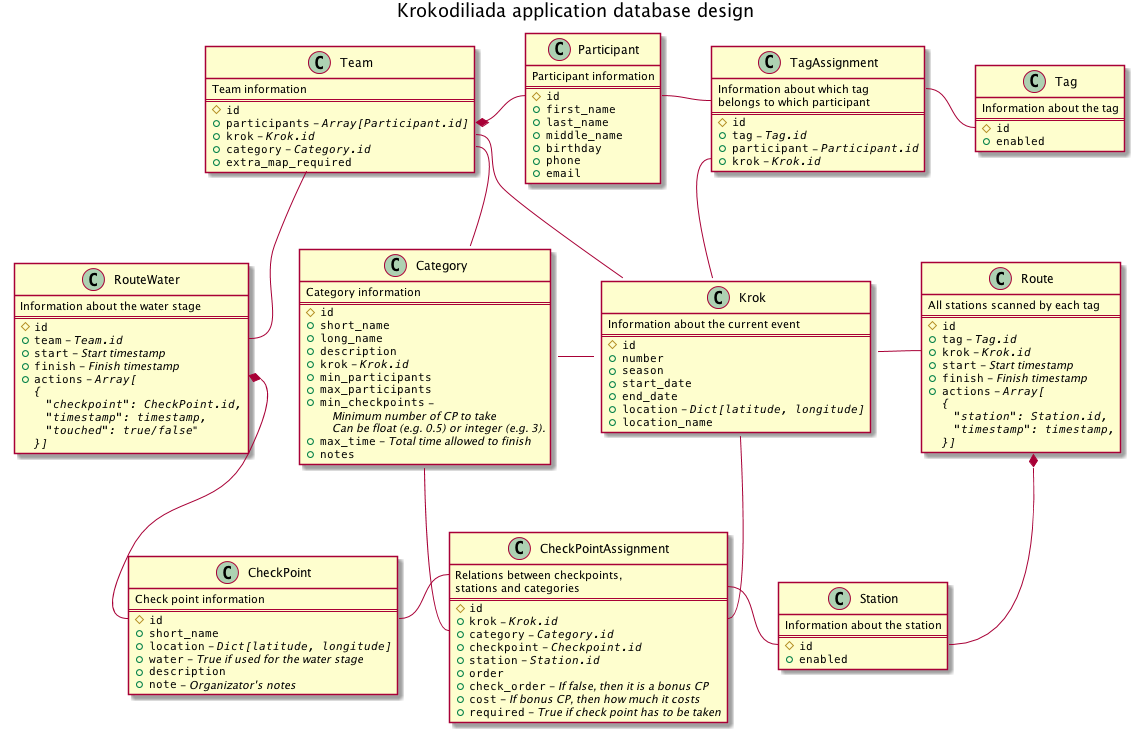
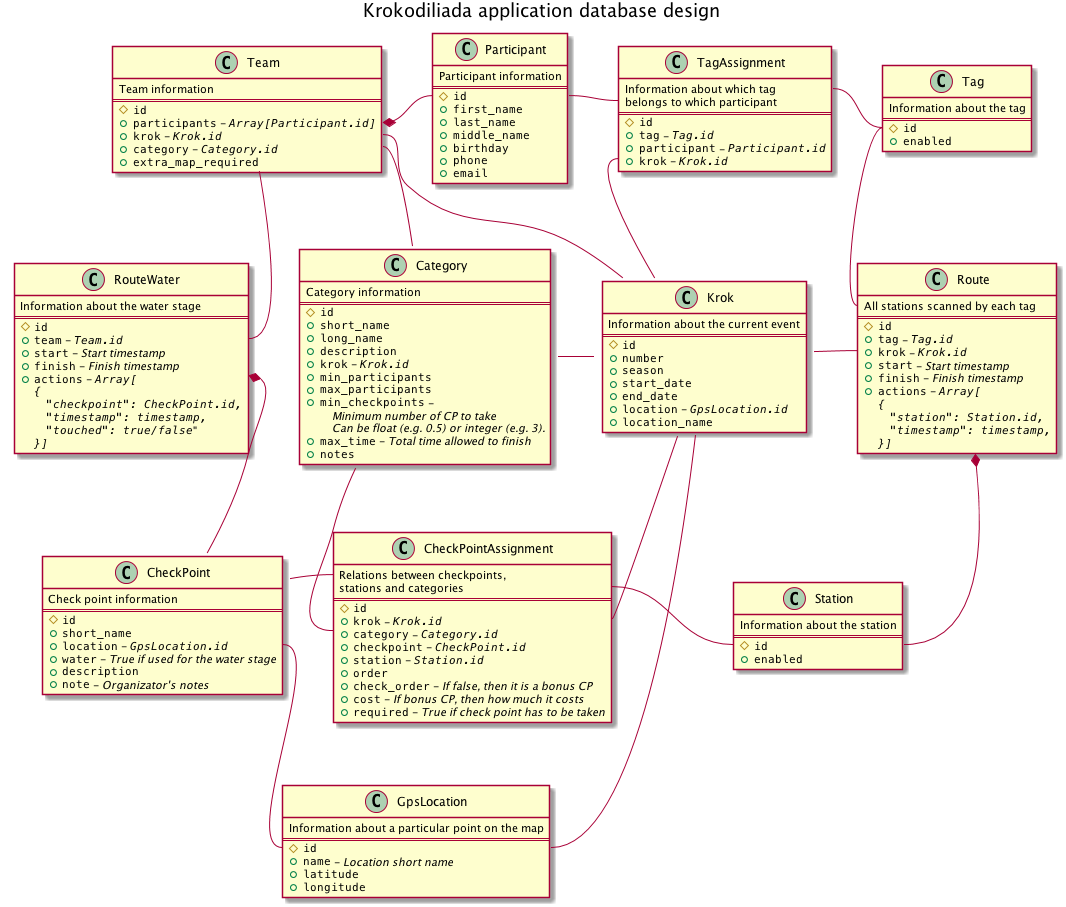
Completed mongoose database schemas

diff --git a/src/model/CheckpointAssignment.ts b/src/model/CheckpointAssignment.ts
@@ -1,0 +1,92 @@
+import mongoose, { Schema, Document } from "mongoose";
+import { IKrok } from "model/Krok";
+import { ICategory } from "model/Category";
+import { ICheckpoint } from "model/CheckPoint";
+import { IStation } from "model/Station";
+
+enum CheckpointCostMetric {
+  Points = 0,
+  Seconds,
+  Minutes,
+  Hours,
+}
+
+export interface ICheckpointAssignment extends Document {
+  krok: IKrok["_id"];
+  category: ICategory["_id"];
+  checkpoint: ICheckpoint["_id"];
+  station: IStation["_id"];
+  required: boolean;
+
+  /**
+   * @brief Check whether the checkpoint is linear or not.
+   * @details If true, then @p order field will be used to check the order of
+   * checkpoints. If false, then the order of this checkpoint does not matter
+   * and it won't be used to check the correctness of the route in @p category.
+   */
+  checkOrder: boolean;
+
+  /**
+   * Number of the @p checkpoint in the route assigned to the @p category
+   */
+  order: number;
+
+  /**
+   * How much of bonus points the team receives if they take this checkpoint.
+   */
+  cost: number;
+  costMetric: CheckpointCostMetric;
+
+  createdAt: Date;
+  updatedAt: Date;
+}
+
+export const CheckpointAssignmentSchema: Schema = new Schema(
+  {
+    krok: {
+      type: Schema.Types.ObjectId,
+      required: true,
+    },
+    category: {
+      type: Schema.Types.ObjectId,
+      required: true,
+    },
+    checkpoint: {
+      type: Schema.Types.ObjectId,
+      required: true,
+    },
+    station: {
+      type: Schema.Types.ObjectId,
+      required: false,
+    },
+    rquired: {
+      type: Boolean,
+      required: false,
+      default: true,
+    },
+    checkOrder: {
+      type: Boolean,
+      required: false,
+      default: true,
+    },
+    order: {
+      type: Number,
+      required: false,
+    },
+    cost: {
+      type: Number,
+      required: false,
+    },
+    costMetric: {
+      type: Number,
+      default: 1,
+      enum: [0, 1, 2, 3],
+    },
+  },
+  { timestamps: true }
+);
+
+export default mongoose.model<ICheckpointAssignment>(
+  "CheckpointAssignment",
+  CheckpointAssignmentSchema
+);

diff --git a/src/model/RouteWater.ts b/src/model/RouteWater.ts
@@ -1,0 +1,57 @@
+import mongoose, { Schema, Document } from "mongoose";
+import { ITeam } from "model/Team";
+import { ICheckpoint } from "model/CheckPoint";
+
+interface IRouteWaterAction extends Document {
+  checkpoint: ICheckpoint["_id"];
+  timestamp: Date;
+  /**
+   * Whether the team touched a pole of the checkpoint
+   */
+  touched: boolean;
+}
+
+export interface IRouteWater extends Document {
+  team: ITeam["_id"];
+  start: Date;
+  finish: Date;
+  actions: [IRouteWaterAction];
+  createdAt: Date;
+  updatedAt: Date;
+}
+
+const RouteWaterActionSchema: Schema = new Schema({
+  station: {
+    type: Schema.Types.ObjectId,
+    required: true,
+  },
+  timestamp: {
+    type: Date,
+    required: true,
+  },
+});
+
+export const RouteWaterSchema: Schema = new Schema(
+  {
+    team: {
+      type: Schema.Types.ObjectId,
+      required: true,
+    },
+    start: {
+      type: Date,
+      required: true,
+    },
+    finish: {
+      type: Date,
+      required: false,
+    },
+    actions: {
+      type: [RouteWaterActionSchema],
+      required: false,
+      default: [],
+    },
+  },
+  { timestamps: true }
+);
+
+export default mongoose.model<IRouteWater>("RouteWater", RouteWaterSchema);

diff --git a/src/model/Route.ts b/src/model/Route.ts
@@ -1,0 +1,59 @@
+import mongoose, { Schema, Document } from "mongoose";
+import { ITag } from "model/Tag";
+import { IKrok } from "model/Krok";
+import { IStation } from "model/Station";
+
+interface IRouteAction extends Document {
+  station: IStation["_id"];
+  timestamp: Date;
+}
+
+export interface IRoute extends Document {
+  tag: ITag["_id"];
+  krok: IKrok["_id"];
+  start: Date;
+  finish: Date;
+  actions: [IRouteAction];
+  createdAt: Date;
+  updatedAt: Date;
+}
+
+const RouteActionSchema: Schema = new Schema({
+  station: {
+    type: Schema.Types.ObjectId,
+    required: true,
+  },
+  timestamp: {
+    type: Date,
+    required: true,
+  },
+});
+
+export const RouteSchema: Schema = new Schema(
+  {
+    tag: {
+      type: Schema.Types.ObjectId,
+      required: true,
+    },
+    krok: {
+      type: Schema.Types.ObjectId,
+      required: true,
+    },
+    start: {
+      type: Date,
+      required: true,
+    },
+    finish: {
+      type: Date,
+      required: true,
+    },
+    actions: {
+      type: [RouteActionSchema],
+      required: true,
+      default: [],
+    },
+  },
+  { timestamps: true }
+);
+
+export default mongoose.model<IRoute>("Route", RouteSchema);

diff --git a/src/model/Checkpoint.ts b/src/model/Checkpoint.ts
@@ -1,0 +1,49 @@
+import mongoose, { Schema, Document } from "mongoose";
+import { IGpsLocation } from "model/GpsLocation";
+
+export interface ICheckpoint extends Document {
+  name: string;
+  location: IGpsLocation;
+  description: string;
+
+  /**
+   * True if checkpoint is used for water stage
+   */
+  water: boolean;
+
+  /**
+   * Organizator's notes about the checkpoint
+   */
+  note: string;
+
+  createdAt: Date;
+  updatedAt: Date;
+}
+
+export const CheckpointSchema: Schema = new Schema(
+  {
+    name: {
+      type: String,
+      required: true,
+    },
+    location: {
+      type: Schema.Types.ObjectId,
+      required: false,
+    },
+    description: {
+      type: String,
+      required: false,
+    },
+    water: {
+      type: Boolean,
+      required: false,
+    },
+    note: {
+      type: String,
+      required: false,
+    },
+  },
+  { timestamps: true }
+);
+
+export default mongoose.model<ICheckpoint>("Checkpoint", CheckpointSchema);

diff --git a/src/model/TagAssignment.ts b/src/model/TagAssignment.ts
@@ -1,0 +1,35 @@
+import mongoose, { Schema, Document } from "mongoose";
+import { IParticipant } from "model/Participant";
+import { IKrok } from "model/Krok";
+import { ITag } from "model/Tag";
+
+export interface ITagAssignment extends Document {
+  tag: ITag["_id"];
+  participant: IParticipant["_id"];
+  krok: IKrok["_id"];
+  createdAt: Date;
+  updatedAt: Date;
+}
+
+export const TagAssignmentSchema: Schema = new Schema(
+  {
+    tag: {
+      type: Schema.Types.ObjectId,
+      required: true,
+    },
+    participant: {
+      type: Schema.Types.ObjectId,
+      required: true,
+    },
+    krok: {
+      type: Schema.Types.ObjectId,
+      required: true,
+    },
+  },
+  { timestamps: true }
+);
+
+export default mongoose.model<ITagAssignment>(
+  "TagAssignment",
+  TagAssignmentSchema
+);

diff --git a/src/model/GpsLocation.ts b/src/model/GpsLocation.ts
@@ -1,0 +1,29 @@
+import mongoose, { Schema, Document } from "mongoose";
+
+export interface IGpsLocation extends Document {
+  name: string;
+  latitude: number;
+  longitude: number;
+  createdAt: Date;
+  updatedAt: Date;
+}
+
+export const GpsLocationSchema: Schema = new Schema(
+  {
+    name: {
+      type: String,
+      required: true,
+    },
+    latitude: {
+      type: Number,
+      required: true,
+    },
+    longitude: {
+      type: Number,
+      required: true,
+    },
+  },
+  { timestamps: true }
+);
+
+export default mongoose.model<IGpsLocation>("GpsLocation", GpsLocationSchema);

diff --git a/src/model/Station.ts b/src/model/Station.ts
@@ -1,0 +1,20 @@
+import mongoose, { Schema, Document } from "mongoose";
+
+export interface IStation extends Document {
+  enabled: boolean;
+  createdAt: Date;
+  updatedAt: Date;
+}
+
+export const StationSchema: Schema = new Schema(
+  {
+    enabled: {
+      type: Boolean,
+      required: false,
+      default: true,
+    },
+  },
+  { timestamps: true }
+);
+
+export default mongoose.model<IStation>("Station", StationSchema);

diff --git a/src/model/Tag.ts b/src/model/Tag.ts
@@ -1,0 +1,20 @@
+import mongoose, { Schema, Document } from "mongoose";
+
+export interface ITag extends Document {
+  enabled: boolean;
+  createdAt: Date;
+  updatedAt: Date;
+}
+
+export const TagSchema: Schema = new Schema(
+  {
+    enabled: {
+      type: Boolean,
+      required: false,
+      default: true,
+    },
+  },
+  { timestamps: true }
+);
+
+export default mongoose.model<ITag>("Tag", TagSchema);
